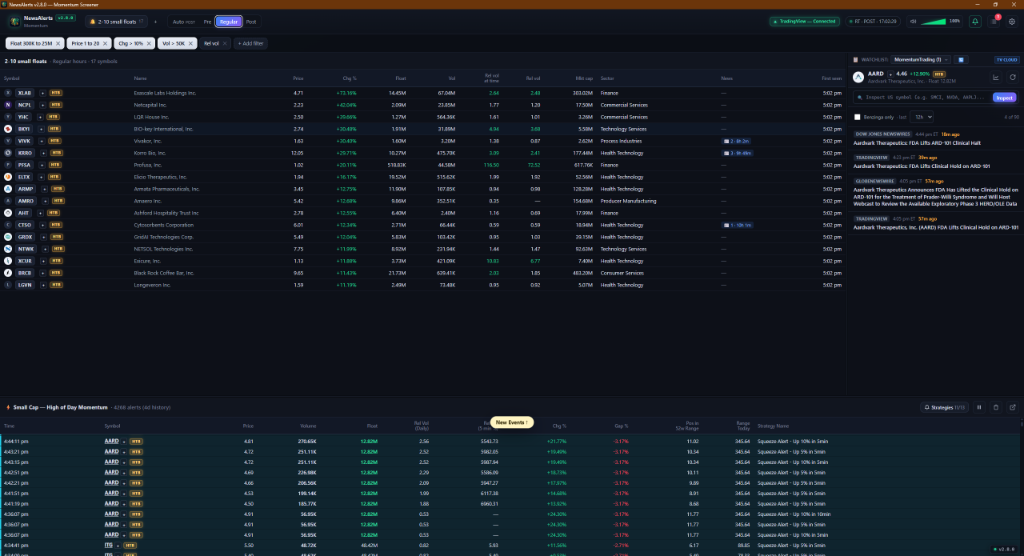
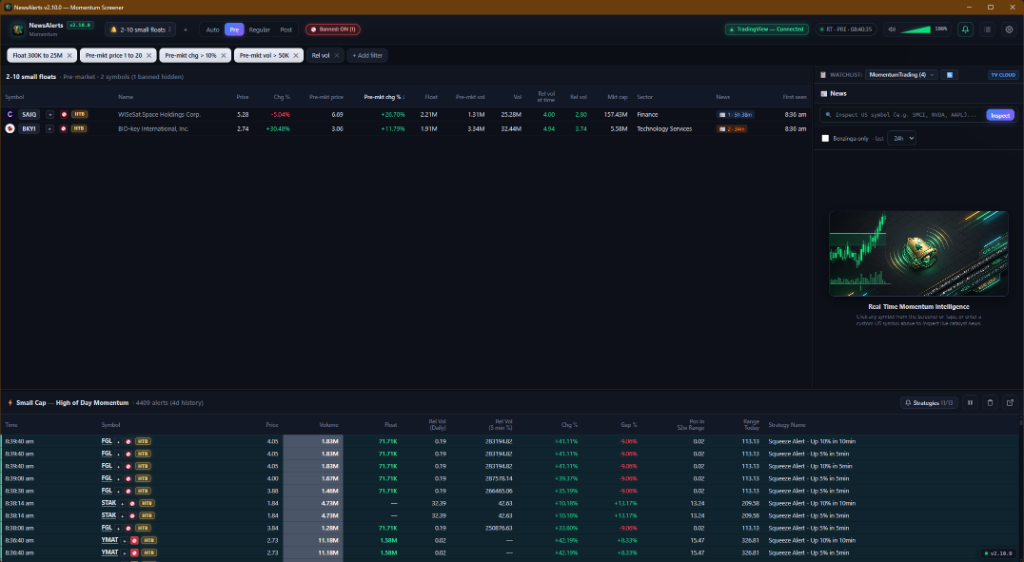
fix(settings): refresh topbar banned badge count on save and update terminal showcase screenshots (Resolves #48) (#49)

diff --git a/web/js/screener.js b/web/js/screener.js
@@ -324,7 +324,8 @@
                 }
               }
             }, "+");
-            const isBanned = window.App && App.config && App.config.banned_symbols && App.config.banned_symbols.map((x) => x.toUpperCase()).includes((r.symbol || "").toUpperCase());
+            const bannedList = (window.App && App.config && App.config.banned_symbols) ? App.config.banned_symbols.map((x) => x.toUpperCase()) : [];
+            const isBanned = bannedList.includes((r.symbol || "").toUpperCase()) || bannedList.includes((r.ticker || "").split(":").pop().toUpperCase());
             const banBtn = U.el("button", {
               class: "btn-ban-sym" + (isBanned ? " is-banned" : ""),
               title: isBanned ? `Symbol ${r.symbol} is banned (closing-only). Click to unban.` : `Ban ${r.symbol} (IB Closing-Only / Restricted)`,

diff --git a/web/js/tape.js b/web/js/tape.js
@@ -114,7 +114,8 @@
               }
             }
           }, "+");
-          const isBanned = window.App && App.config && App.config.banned_symbols && App.config.banned_symbols.map((x) => x.toUpperCase()).includes((e.symbol || "").toUpperCase());
+          const bannedList = (window.App && App.config && App.config.banned_symbols) ? App.config.banned_symbols.map((x) => x.toUpperCase()) : [];
+          const isBanned = bannedList.includes((e.symbol || "").toUpperCase()) || bannedList.includes((e.ticker || "").split(":").pop().toUpperCase());
           const banBtn = U.el("button", {
             class: "btn-ban-sym" + (isBanned ? " is-banned" : ""),
             title: isBanned ? `Symbol ${e.symbol} is banned (closing-only). Click to unban.` : `Ban ${e.symbol} (IB Closing-Only / Restricted)`,

diff --git a/web/js/news.js b/web/js/news.js
@@ -219,7 +219,8 @@
         }
       }, "+");
 
-      const isBanned = window.App && App.config && App.config.banned_symbols && App.config.banned_symbols.map((x) => x.toUpperCase()).includes((sym || "").toUpperCase());
+      const bannedList = (window.App && App.config && App.config.banned_symbols) ? App.config.banned_symbols.map((x) => x.toUpperCase()) : [];
+      const isBanned = bannedList.includes((sym || "").toUpperCase()) || bannedList.includes((News.ticker || "").split(":").pop().toUpperCase());
       const banBtn = U.el("button", {
         class: "btn-ban-sym" + (isBanned ? " is-banned" : ""),
         title: isBanned ? `Symbol ${sym} is banned (closing-only). Click to unban.` : `Ban ${sym} (IB Closing-Only / Restricted)`,

diff --git a/web/js/settings.js b/web/js/settings.js
@@ -28,7 +28,9 @@
       bg.classList.add("show");
       U.$("#settings-save").onclick = () => {
         App.config = c; App.saveConfig(true); Settings.applyUi(); bg.classList.remove("show");
+        if (App.updateFilterBannedButton) App.updateFilterBannedButton();
         Screener.renderBar(); Screener.renderTable(); Tape.renderAll(); News.syncTools();
+        if (window.News && News.renderHead) News.renderHead();
       };
       U.$("#settings-cancel").onclick = () => Settings.close();
       U.$("#settings-close").onclick = () => Settings.close();

diff --git a/web/js/app.js b/web/js/app.js
@@ -275,6 +275,8 @@
       : `IB Closing-Only Filter OFF. Click to hide ${count} banned / closing-only symbol(s).`;
   }
 
+  App.updateFilterBannedButton = updateFilterBannedButton;
+
   function initFilterBannedControl() {
     const btn = U.$("#btn-filter-banned");
     if (btn) {

diff --git a/README.md b/README.md
@@ -51,7 +51,7 @@ Active momentum day trading requires spotting low-float runners the split second
     <img src="docs/img/terminal.png" alt="NewsAlerts Real-Time Momentum Terminal" width="100%" style="border-radius:10px; border:1px solid #2a3347; box-shadow:0 8px 24px rgba(0,0,0,0.45);" />
   </a>
   <br>
-  <small><em>Live institutional terminal capture (v2.8.0): Real-time screener with 1-click watchlist quick-add, high-of-day momentum tape, TradingView cloud watchlist selector, and catalyst news wire.</em></small>
+  <small><em>Live institutional terminal capture (v2.10.2): Real-time screener with 1-click watchlist quick-add, high-of-day momentum tape, TradingView cloud watchlist selector, interactive topbar 🚫 Banned / Closing-Only filter, and catalyst news wire.</em></small>
 </p>
 
 | Terminal Feature | Live Interface Capture |
@@ -59,6 +59,7 @@ Active momentum day trading requires spotting low-float runners the split second
 | <div align="center"><br><h3><b>⚡ Real-Time Momentum Screener</b></h3><b>Sub-second low-float scanner built for intraday velocity</b><br><br>• <b>Live Inbound Symbol Badges</b>: Instant visual <code>NEW</code> badge the exact second a ticker enters criteria.<br>• <b>Dynamic Momentum Filtering</b>: Real-time scan criteria on Float, Price, % Change, and Relative Volume.<br>• <b>Live Shortability Indicators</b>: Broker-grade <code>NO BORROW</code>, <code>HTB</code>, and <code>ETB</code> badges on every row.<br><br></div> | <a href="docs/img/screener.png"><img src="docs/img/screener.png" alt="Momentum Screener" width="460" /></a> |
 | <div align="center"><br><h3><b>🌊 High-of-Day (HOD) & Squeeze Tape</b></h3><b>Warrior-Trading style real-time momentum prints</b><br><br>• <b>High-Velocity Prints</b>: Real-time prints streaming new high-of-day momentum triggers and velocity surges.<br>• <b>Large-Cap & Micro-Cap Coverage</b>: Monitors both low-float runners and high-float momentum squeezes (e.g. SMCI, NVDA, TSLA).<br>• <b>Relative Volume Velocity</b>: Live 5-minute relative volume surges (e.g. +4000%) alongside daily rates.<br>• <b>4-Day Local Persistence</b>: Automatic local disk caching for off-hours and weekend trade reviews.<br><br></div> | <a href="docs/img/tape.png"><img src="docs/img/tape.png" alt="Running Momentum Tape" width="460" /></a> |
 | <div align="center"><br><h3><b>🎯 Tape Strategies Quick-Filter Menu</b></h3><b>Instant floating strategy popout directly on the tape</b><br><br>• <b>Header Popout Toggles</b>: Click <code>Strategies 11/13</code> on the tape header to toggle strategies on the fly without leaving the tape.<br>• <b>Color-Coded Bullet Indicators</b>: Direct visual correlation with tape print highlight families (mint, sand, violet, cyan).<br>• <b>Select / Unselect All</b>: Instant master toggle to enable or disable all strategy streams with one click.<br><br></div> | <a href="docs/img/tape_strategies_menu.png"><img src="docs/img/tape_strategies_menu.png" alt="Tape Strategies Quick-Filter Menu" width="460" /></a> |
+| <div align="center"><br><h3><b>🚫 Broker Closing-Only & Banned Stock Filter</b></h3><b>1-click blacklist to eliminate un-tradeable broker stocks</b><br><br>• <b>Topbar Interactive Filter Pill</b>: Toggle <code>[🚫 Banned: ON / OFF]</code> on the top header to instantly hide blacklisted stocks across Screener and Tape.<br>• <b>1-Click Blacklist Buttons</b>: Click <code>🚫</code> directly beside tickers in Screener rows, Tape cards, and News header.<br>• <b>Dedicated Settings Manager</b>: Interactive chips with <code>✕</code> removal, manual <code>+ Add Symbol</code> input bar, and clear all.<br>• <b>Alert Suppression</b>: Automatic suppression of audio chimes and Telegram alerts for banned tickers.<br><br></div> | <a href="docs/img/banned_stocks.png"><img src="docs/img/banned_stocks.png" alt="Banned Stocks Filter Settings" width="460" /></a> |
 | <div align="center"><br><h3><b>⚙ Interactive Strategy Builder</b></h3><b>Custom trading strategy engine with live rule editing</b><br><br>• <b>Add Custom Strategies</b>: Click <code>+ Add Strategy</code> to define custom float bounds, relative volume, price, and velocity windows.<br>• <b>Multiple Trigger Types</b>: Choose between <code>New HOD</code>, <code>52w Breakout</code>, or <code>Up X% in N min</code> surges.<br>• <b>Family Classification</b>: Tag strategies as Low Float, Med Float, Large Cap, Squeeze, or Custom.<br>• <b>Inline Preset Sync</b>: Instant <code>💾 Export</code> and <code>📂 Import</code> buttons right in the strategies table.<br><br></div> | <a href="docs/img/strategy_builder.png"><img src="docs/img/strategy_builder.png" alt="Interactive Strategy Builder" width="460" /></a> |
 | <div align="center"><br><h3><b>💾 Backup & Strategy Sync Center</b></h3><b>Full terminal disaster recovery and strategy distribution</b><br><br>• <b>Full Application Backup</b>: Export complete terminal state (screeners, sound alerts, hotkeys, tape universe) into portable JSON.<br>• <b>Tape Strategies Only Sync</b>: Share tactical strategy configurations independently with trading partners.<br>• <b>Factory Reset Safeguard</b>: One-click restore back to factory defaults while securely preserving secret keys.<br><br></div> | <a href="docs/img/backup_sync.png"><img src="docs/img/backup_sync.png" alt="Configuration Backup and Sync" width="460" /></a> |
 | <div align="center"><br><h3><b>📰 Instant Catalyst Confirmation</b></h3><b>Zero-lag Benzinga & PR news wire with on-demand US symbol search</b><br><br>• <b>Custom US Symbol Search</b>: Inspect real-time quotes, float, borrow locates, and Benzinga headlines for any US equity (AMEX, NASDAQ, NYSE).<br>• <b>Interactive Watchlist Chips</b>: Pinned quick-access chips for rapid one-click ticker switching.<br>• <b>Eliminate the 15-Minute Lag</b>: Retail charts lag by 5–15 min; NewsAlerts surfaces wire PRs the moment they cross.<br>• <b>One-Click Chart Popout</b>: Dedicated chart icon button opens the live TradingView chart in your browser.<br>• <b>Custom Time Horizon</b>: Filter news stories from the last 1 hour to 7 days with a single click.<br><br></div> | <a href="docs/img/news.png"><img src="docs/img/news.png" alt="Catalyst News Wire" width="460" /></a> |

diff --git a/docs/releases/v2.10.2.md b/docs/releases/v2.10.2.md
@@ -1,0 +1,37 @@
+# NewsAlerts v2.10.2 — Release Notes
+
+**Release Date:** October 2026  
+**Type:** Patch Release (`PATCH` — Topbar Banned Count Sync & Terminal Showcase Media)  
+**Single Source of Truth:** `VERSION` (`2.10.2`)
+
+---
+
+## 🚀 Overview
+
+NewsAlerts **v2.10.2** fixes a client-side badge desynchronization bug in the top banner **`[🚫 Banned: ON (N)]`** toggle pill and updates the flagship terminal showcase assets across the documentation, README, and GitHub Wiki with live institutional captures.
+
+---
+
+## 🛠 Key Bug Fixes & Enhancements
+
+### 1. Topbar Banned Filter Count Synchronization (Issue #48)
+- **Settings Save Reaction**:
+  - Exposed `App.updateFilterBannedButton()` globally.
+  - Wired `#settings-save.onclick` to automatically invoke `App.updateFilterBannedButton()` upon saving configuration changes.
+  - When new symbols (e.g. `CLIK`) are added to or removed from the Banned Stocks list in Settings, the topbar filter badge immediately reflects the exact total count (e.g. `Banned: ON (2)`) without requiring manual toggling OFF and ON again.
+- **Resilient Symbol Matching**:
+  - Standardized symbol qualification across Screener (`web/js/screener.js`), Tape (`web/js/tape.js`), and News wire (`web/js/news.js`) to match against both bare ticker symbols (e.g. `CLIK`) and exchange-qualified formats (e.g. `NASDAQ:CLIK`).
+
+### 2. High-Resolution Terminal & Settings Showcase Media (Issue #48)
+- **Flagship Terminal Screenshot (`docs/img/terminal.png`)**:
+  - Updated to live institutional terminal capture featuring the active `[🚫 Banned: ON]` pill, 1-click blacklisting buttons, live momentum prints, and Screener grid.
+  - Integrated into `README.md`, `docs/wiki/Home.md`, and `docs/wiki/Catalyst-News-Wire-&-Benzinga.md`.
+- **Banned Stocks Settings Manager (`docs/img/banned_stocks.png`)**:
+  - Added dedicated interface screenshot displaying the Banned Stocks interactive chip list, manual `+ Add Symbol` input bar, and active toggle switch.
+  - Embedded into `README.md` showcase table, `docs/wiki/Real-Time-Momentum-Screener.md`, and `docs/wiki/Running-Momentum-Tape.md`.
+
+---
+
+## 🎯 Closed Issues
+
+- **Resolves #48**: fix(settings): refresh topbar banned badge count on save and update terminal showcase screenshots

diff --git a/docs/RELEASES.md b/docs/RELEASES.md
@@ -37,6 +37,7 @@ All official releases are produced deterministically through GitHub Actions:
 
 ## Release History
 
+- [v2.10.2 Release Notes](releases/v2.10.2.md) — Fixed topbar banned filter badge count synchronization upon saving Settings, standardized bare and qualified ticker matching across Screener, Tape, and News, and updated flagship terminal and settings showcase media across documentation (Resolves #48).
 - [v2.10.1 Release Notes](releases/v2.10.1.md) — Eliminated false positive momentum tape squeeze alerts on flat and declining stocks like `STAK`, isolated server velocity calculations to regular session, and added 5-minute background auto-refresh synchronization for TradingView custom watchlists (Resolves #46).
 - [v2.10.0 Release Notes](releases/v2.10.0.md) — Introduced Broker Closing-Only & Banned Stock Filter Engine with topbar interactive toggle, 1-click 🚫 blacklisting in Screener, Tape, and News, dedicated Settings manager, and alert suppression for un-tradeable broker tickers like `YMAT` (Resolves #44).
 - [v2.9.0 Release Notes](releases/v2.9.0.md) — Introduced Dual Distribution Model (portable single-binary + pre-extracted app in `%LOCALAPPDATA%\Programs\NewsAlerts` with Inno Setup Windows installer), achieving sub-300ms terminal startup, storage transparency with one-click folder access, and universal US-listed stock coverage removing foreign jurisdiction restrictions for tickers like `SAIQ` (Resolves #39, #41).

diff --git a/docs/wiki/Real-Time-Momentum-Screener.md b/docs/wiki/Real-Time-Momentum-Screener.md
@@ -25,6 +25,14 @@ The **Momentum Screener** is the core scanning engine of NewsAlerts. It continuo
 - **1-Click Broker Banned / Closing-Only Blacklist (`🚫`)**:
   Every screener row includes a dedicated `🚫` button next to the ticker. If an active stock is placed in "closing-only" status or rejected by your broker (e.g. Interactive Brokers margin restrictions or penny stock rules on symbols like `YMAT`), click `🚫` to immediately blacklist it. When the topbar **`[🚫 Banned: ON]`** filter is active, banned symbols are immediately hidden from both the Screener and Tape, and alert chimes are suppressed.
 
+<p align="center">
+  <a href="https://raw.githubusercontent.com/mlgitdev/NewsAlerts/main/docs/img/banned_stocks.png">
+    <img src="https://raw.githubusercontent.com/mlgitdev/NewsAlerts/main/docs/img/banned_stocks.png" alt="Banned & Closing-Only Stocks Manager" width="100%" style="border-radius:10px; border:1px solid #2a3347; box-shadow:0 8px 24px rgba(0,0,0,0.45);" />
+  </a>
+  <br>
+  <small><em>Settings & Data Sources: Banned & Closing-Only Stocks manager with interactive chips, manual symbol add input, active filter toggle, and clear all.</em></small>
+</p>
+
 - **Configurable Screening Criteria**:
   Adjust screening filters in real time via the Settings modal (`S` hotkey):
   - **Minimum & Maximum Price**: Target low-priced small caps (e.g., $1.00 to $20.00).

diff --git a/docs/wiki/Home.md b/docs/wiki/Home.md
@@ -9,7 +9,7 @@ Built on a native, ultra-responsive architecture (`pywebview` + Vanilla ES6+/CSS
     <img src="https://raw.githubusercontent.com/mlgitdev/NewsAlerts/main/docs/img/terminal.png" alt="NewsAlerts Real-Time Momentum Terminal" width="100%" style="border-radius:10px; border:1px solid #2a3347; box-shadow:0 10px 30px rgba(0,0,0,0.5);" />
   </a>
   <br>
-  <small><em>Live institutional terminal capture (v2.8.0): Real-time screener with 1-click watchlist quick-add, high-of-day momentum tape, TradingView cloud watchlist selector, and catalyst news wire.</em></small>
+  <small><em>Live institutional terminal capture (v2.10.2): Real-time screener with 1-click watchlist quick-add, high-of-day momentum tape, TradingView cloud watchlist selector, interactive topbar 🚫 Banned / Closing-Only filter, and catalyst news wire.</em></small>
 </p>
 
 ---

diff --git a/docs/wiki/Running-Momentum-Tape.md b/docs/wiki/Running-Momentum-Tape.md
@@ -66,3 +66,9 @@ Unlike web-based scanners that erase your tape history the moment you refresh or
 ## 🚫 Broker Banned / Closing-Only Stock Filter
 
 Each event card on the running tape features a dedicated `🚫` blacklist button alongside the symbol. Clicking it adds the symbol to your banned tickers list. When the topbar **`[🚫 Banned: ON]`** filter is active, tape prints for banned stocks are automatically hidden from view and audio chimes are suppressed.
+
+<p align="center">
+  <a href="https://raw.githubusercontent.com/mlgitdev/NewsAlerts/main/docs/img/banned_stocks.png">
+    <img src="https://raw.githubusercontent.com/mlgitdev/NewsAlerts/main/docs/img/banned_stocks.png" alt="Banned Stocks Manager" width="100%" style="border-radius:10px; border:1px solid #2a3347; box-shadow:0 8px 24px rgba(0,0,0,0.45);" />
+  </a>
+</p>

diff --git a/docs/wiki/_Footer.md b/docs/wiki/_Footer.md
@@ -1,7 +1,7 @@
 ---
 <p align="center">
   <small>
-    <b>NewsAlerts v2.10.1</b> · Institutional Trading Terminal · Maintained by <a href="https://github.com/mlgitdev">@mlgitdev</a> · <a href="https://github.com/mlgitdev/NewsAlerts">GitHub Repository</a> · <a href="Home">Wiki Home</a>
+    <b>NewsAlerts v2.10.2</b> · Institutional Trading Terminal · Maintained by <a href="https://github.com/mlgitdev">@mlgitdev</a> · <a href="https://github.com/mlgitdev/NewsAlerts">GitHub Repository</a> · <a href="Home">Wiki Home</a>
 
   </small>
 </p>
